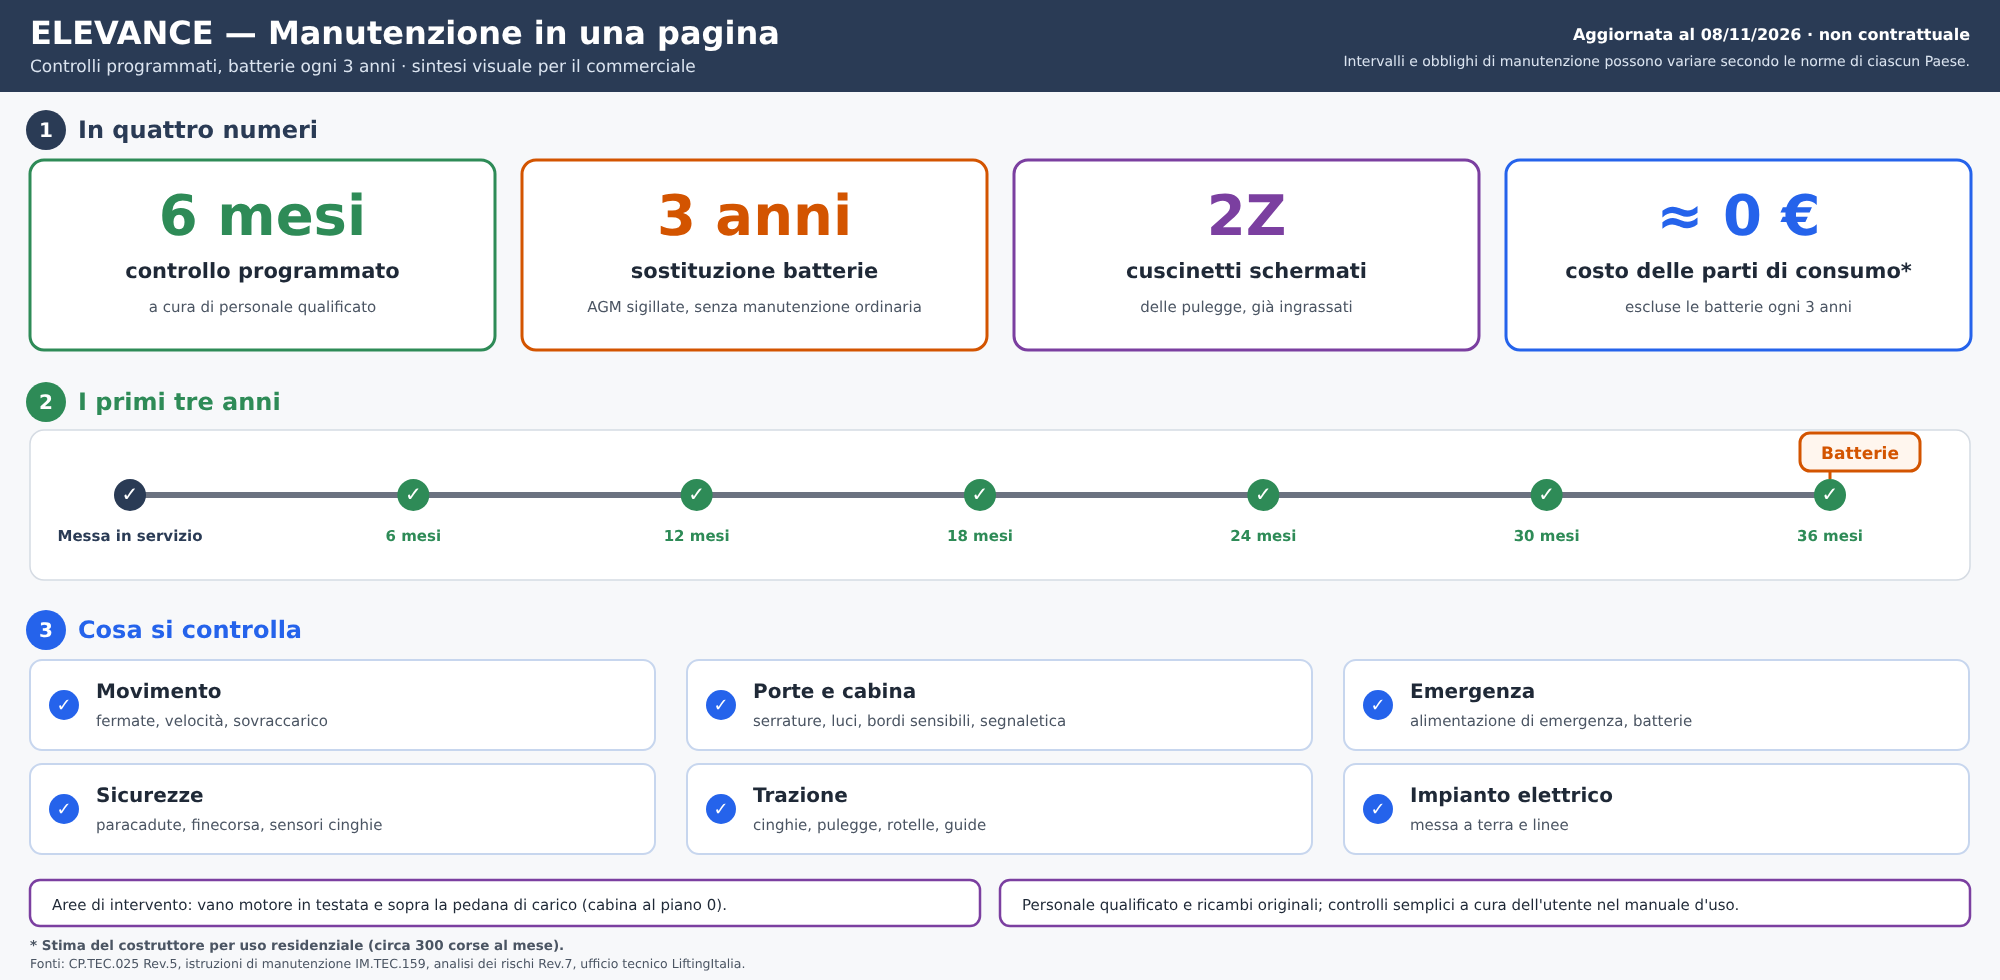
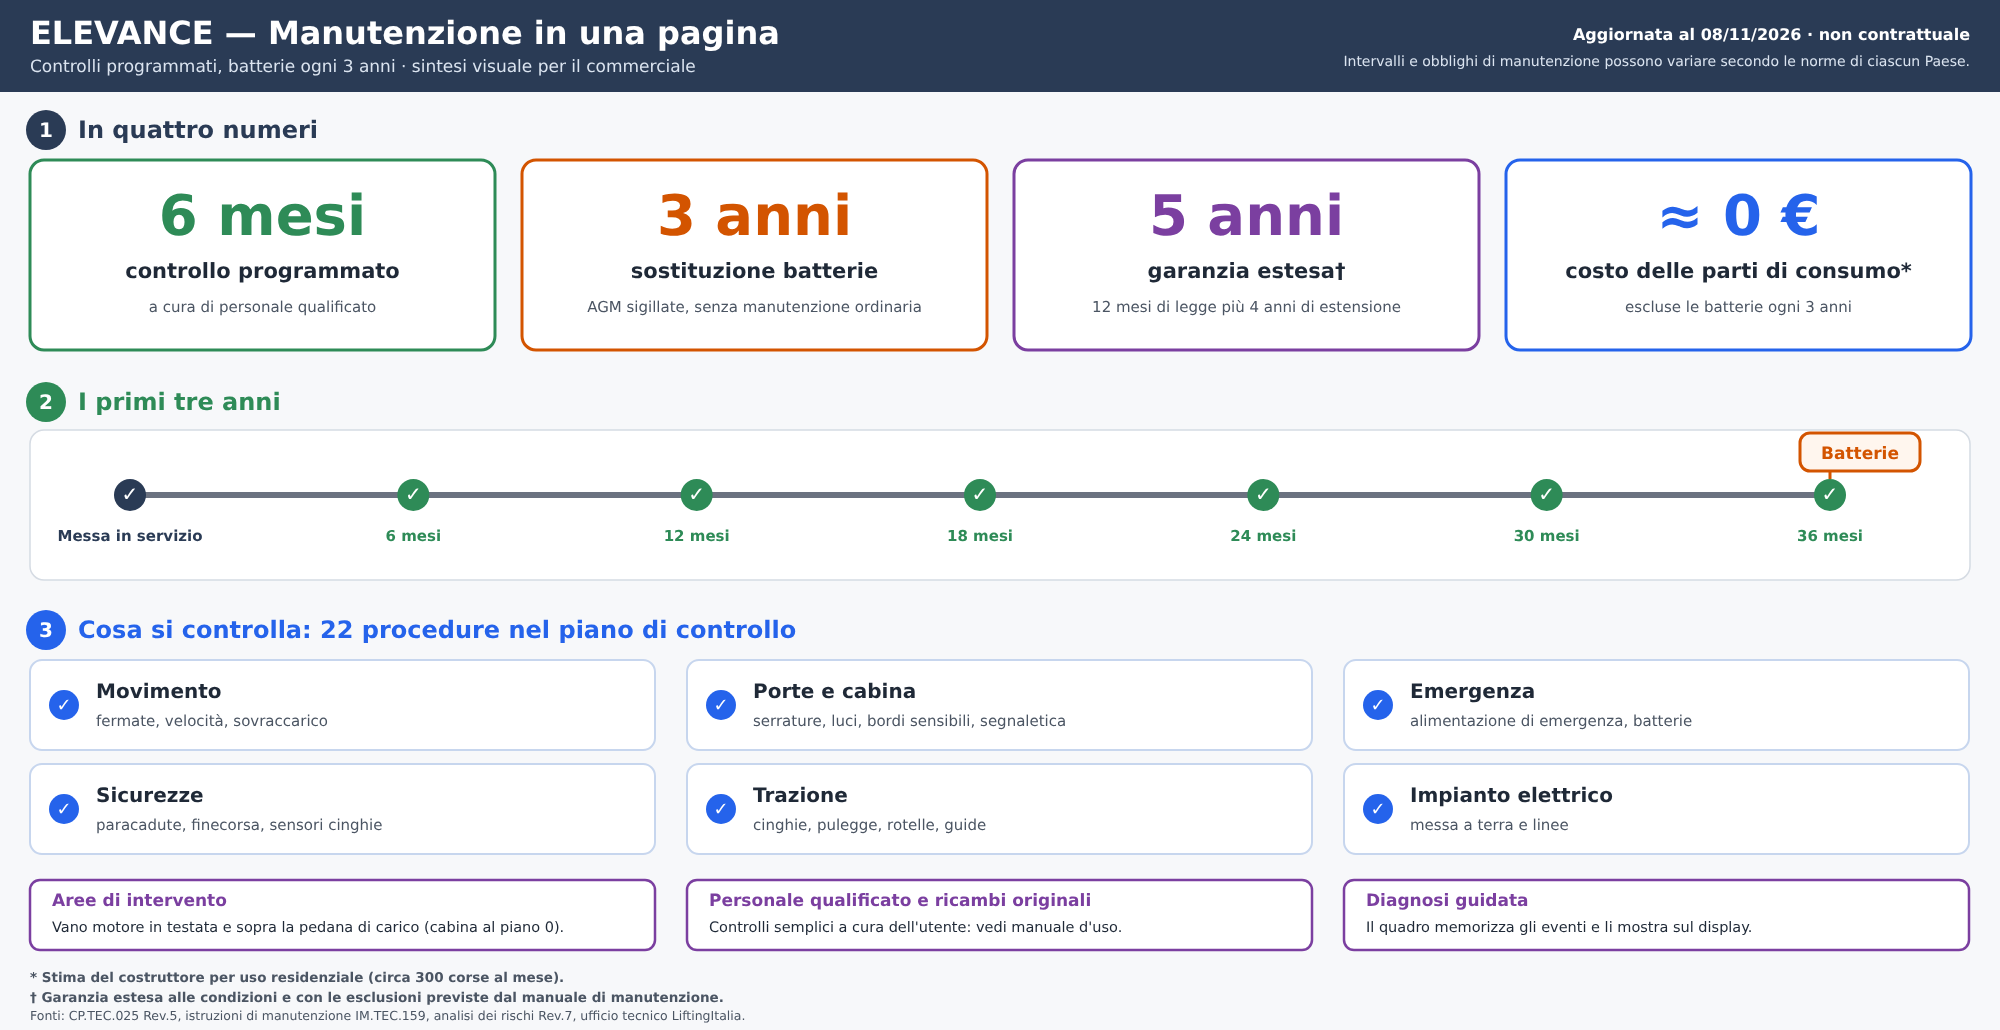
Diagramma 07: garanzia estesa, 22 procedure, ricambi originali e diagnosi guidata
Claude-Session: https://claude.ai/code/session_014X97zaNG1xbzg14WYDzEGF

diff --git a/docs/gen_diagramma_manutenzione_sintesi.py b/docs/gen_diagramma_manutenzione_sintesi.py
@@ -3,14 +3,14 @@
 
 Uso:  python3 docs/gen_diagramma_manutenzione_sintesi.py docs/diagrammi/07.diagramma_manutenzione_sintesi.svg
 
-Come il 06, con in più, su richiesta dell'utente (2026-11-08), il riquadro «costo delle parti di consumo
+Come il 06 (senza i cuscinetti 2Z; con in più garanzia estesa, 22 procedure, ricambi originali e diagnosi guidata), con in più, su richiesta dell'utente (2026-11-08), il riquadro «costo delle parti di consumo
 approssimativamente zero, escluse le batterie ogni 3 anni», presentato come STIMA DEL COSTRUTTORE per uso
 residenziale (circa 300 corse al mese). Non è ancora documentato da dati di vita dei componenti: vedi DOC-23.
 """
 import html
 import sys
 
-W, H = 2000, 980
+W, H = 2000, 1030
 TXT, SUB = '#1f2937', '#4b5563'
 GRN, AMB, RED, BLU, GRY, NAV, PUR, ORA = ('#2e8b57', '#c27c0e', '#c0392b', '#2563eb',
                                           '#6b7280', '#2a3b55', '#7b3fa0', '#d35400')
@@ -50,7 +50,7 @@ T(W - 30, 66, 'Intervalli e obblighi di manutenzione possono variare secondo le 
 SEC(130, 1, 'In quattro numeri', NAV)
 tiles = [('6 mesi', 'controllo programmato', 'a cura di personale qualificato', GRN),
          ('3 anni', 'sostituzione batterie', 'AGM sigillate, senza manutenzione ordinaria', ORA),
-         ('2Z', 'cuscinetti schermati', 'delle pulegge, già ingrassati', PUR),
+         ('5 anni', 'garanzia estesa†', '12 mesi di legge più 4 anni di estensione', PUR),
          ('≈ 0 €', 'costo delle parti di consumo*', 'escluse le batterie ogni 3 anni', BLU)]
 tw = 465
 for i, (big, mid, small, c) in enumerate(tiles):
@@ -76,7 +76,7 @@ T(x1 + 30, yl - 36, 'Batterie', 17, 'middle', 'bold', ORA)
 o.append(f'<line x1="{x1}" y1="{yl-24}" x2="{x1}" y2="{yl-16}" stroke="{ORA}" stroke-width="3"/>')
 
 # 3. cosa si controlla
-SEC(630, 3, 'Cosa si controlla', BLU)
+SEC(630, 3, 'Cosa si controlla: 22 procedure nel piano di controllo', BLU)
 groups = [('Movimento', 'fermate, velocità, sovraccarico'), ('Porte e cabina', 'serrature, luci, bordi sensibili, segnaletica'),
           ('Emergenza', 'alimentazione di emergenza, batterie'), ('Sicurezze', 'paracadute, finecorsa, sensori cinghie'),
           ('Trazione', 'cinghie, pulegge, rotelle, guide'), ('Impianto elettrico', 'messa a terra e linee')]
@@ -89,13 +89,18 @@ for k, (t, d) in enumerate(groups):
     T(x + 66, y + 38, t, 20, 'start', 'bold', TXT)
     T(x + 66, y + 66, d, 15, 'start', 'normal', SUB)
 
-# 4. dove e chi
-R(30, 880, 950, 46, '#fff', PUR, 2.5, 10)
-T(52, 910, 'Aree di intervento: vano motore in testata e sopra la pedana di carico (cabina al piano 0).', 15, 'start', 'normal', TXT)
-R(1000, 880, 970, 46, '#fff', PUR, 2.5, 10)
-T(1022, 910, 'Personale qualificato e ricambi originali; controlli semplici a cura dell\'utente nel manuale d\'uso.', 15, 'start', 'normal', TXT)
-T(30, 950, '* Stima del costruttore per uso residenziale (circa 300 corse al mese).', 13.5, 'start', 'bold', SUB)
-T(30, 968, 'Fonti: CP.TEC.025 Rev.5, istruzioni di manutenzione IM.TEC.159, analisi dei rischi Rev.7, ufficio tecnico LiftingItalia.', 12.5, 'start', 'normal', SUB)
+# 4. dove, chi, diagnosi
+boxes = [('Aree di intervento', 'Vano motore in testata e sopra la pedana di carico (cabina al piano 0).'),
+         ('Personale qualificato e ricambi originali', 'Controlli semplici a cura dell\'utente: vedi manuale d\'uso.'),
+         ('Diagnosi guidata', 'Il quadro memorizza gli eventi e li mostra sul display.')]
+for k, (t, d) in enumerate(boxes):
+    x = 30 + k * 657
+    R(x, 880, 625, 70, '#fff', PUR, 2.5, 10)
+    T(x + 22, 906, t, 17, 'start', 'bold', PUR)
+    T(x + 22, 932, d, 14.5, 'start', 'normal', TXT)
+T(30, 982, '* Stima del costruttore per uso residenziale (circa 300 corse al mese).', 13.5, 'start', 'bold', SUB)
+T(30, 1002, '† Garanzia estesa alle condizioni e con le esclusioni previste dal manuale di manutenzione.', 13.5, 'start', 'bold', SUB)
+T(30, 1020, 'Fonti: CP.TEC.025 Rev.5, istruzioni di manutenzione IM.TEC.159, analisi dei rischi Rev.7, ufficio tecnico LiftingItalia.', 12.5, 'start', 'normal', SUB)
 
 o.append('</svg>')
 out = sys.argv[1] if len(sys.argv) > 1 else 'docs/diagrammi/07.diagramma_manutenzione_sintesi.svg'

diff --git a/docs/registro_issue.md b/docs/registro_issue.md
@@ -757,6 +757,7 @@ Percorsi dei file firmware: `TTF-Base/Firmware/TTF-Base/Core/` (per brevità `Sr
 - **Proposta:** decidere un messaggio commerciale coerente con il manuale (per esempio «controllo semestrale programmato, nessun intervento di ingrassaggio sul motoriduttore» solo se verificato) e ripulire il testo della garanzia dalle voci non pertinenti; chiarire cosa prevede la colonna «ogni 5/10 anni» e l'intervallo di sostituzione di cinghie e freni.
 - **Chiusura:** manuale e messaggi commerciali coerenti.
 - **Storia:** 2026-11-08 aperta. 2026-11-08 chiarito il significato che l'utente dà al claim: nessuna parte di usura da sostituire oltre alle batterie ogni 3 anni, solo controlli periodici; lubrificazione delle pulegge solo in caso di rumori anomali, perché i cuscinetti sono schermati e già ingrassati. Da verificare per sostenerlo: suffisso di schermatura dei cuscinetti SKF 6007 e 6006 (la relazione ST.TEC.068 non lo indica); vita attesa di cinghie, rotelle di scorrimento, cerniere porta, freni, pulsanti e strip led (il manuale prevede ispezioni di usura su cinghie, rotelle, guide e cerniere); correggere la voce 22 del §10.06 («pulire e lubrificare le pulegge») e la clausola di garanzia sull'usura in modo coerente.
+  2026-11-08 diagramma 07 aggiornato su richiesta dell'utente: il riquadro dei cuscinetti 2Z è sostituito da «garanzia estesa» (CP.TEC.025: 5 anni; manuale di manutenzione: 12 mesi di legge più 4 anni di estensione alle condizioni e con le esclusioni indicate) e sono aggiunti «22 procedure» (IM.TEC.159 §10.06), «ricambi originali» (IM.TEC.159) e «diagnosi guidata» (verificata nel codice: gli eventi di guasto sono memorizzati e mostrati sul display; non presente nei manuali letti). I cuscinetti 2Z restano nel diagramma 06.
   2026-11-08 risposte dell'utente: cuscinetti con schermi 2Z (da riportare nella distinta e nella relazione); le vite attese dei componenti di usura saranno stimate dall'utente con ipotesi ottimistica (da dichiarare come ipotesi, non come garanzia, e da motivare); riferimento d'uso residenziale (circa 300 corse al mese).
 
 ### DOC-24 · Manuali IM.TEC.159 e 161 e cartelli: residui da altri prodotti, refusi e rimandi errati
@@ -907,3 +908,4 @@ Percorsi dei file firmware: `TTF-Base/Firmware/TTF-Base/Core/` (per brevità `Sr
 | 2026-11-08 | Letto il certificato IMQ DR 637 DM Rev.0: aggiornata NOR-07 e aggiunta DOC-25. Totale 93 voci. |
 | 2026-11-08 | Aggiunto il diagramma commerciale sulla manutenzione (06), con le sole affermazioni confermate; DOC-23 aggiornata. |
 | 2026-11-08 | Aggiunta la versione sintetica del diagramma sulla manutenzione (07) con il riquadro «≈ 0 €» come stima del costruttore; DOC-23 aggiornata. |
+| 2026-11-08 | Diagramma 07: aggiunti garanzia estesa, 22 procedure, ricambi originali e diagnosi guidata; tolti i cuscinetti 2Z (restano nel 06). |
